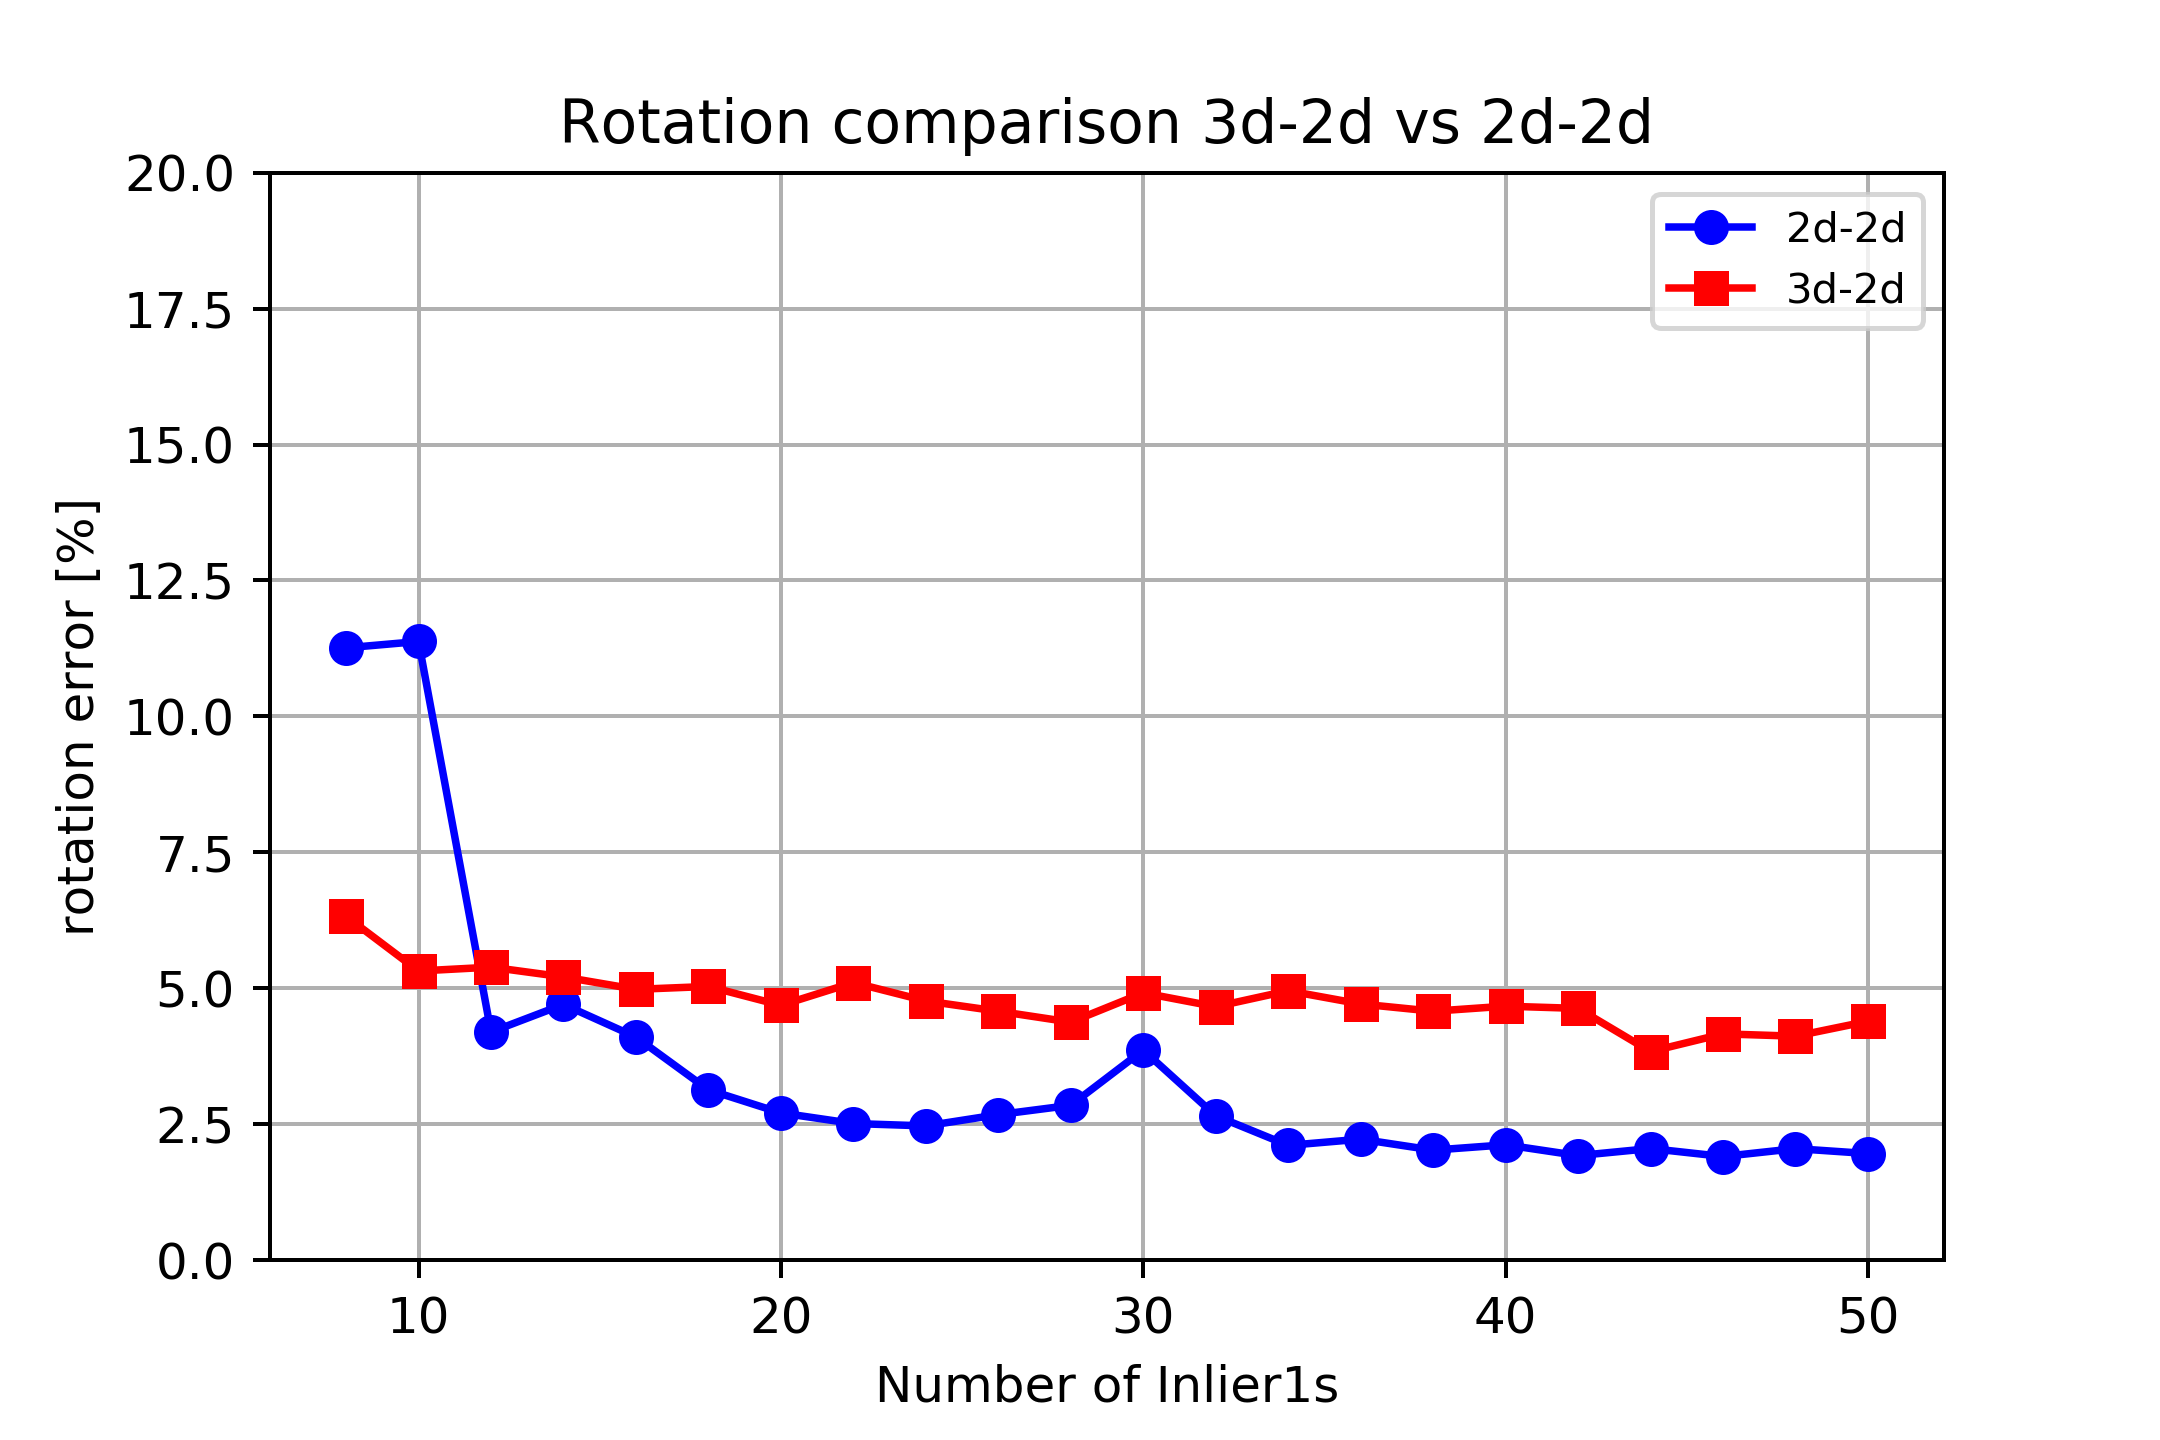
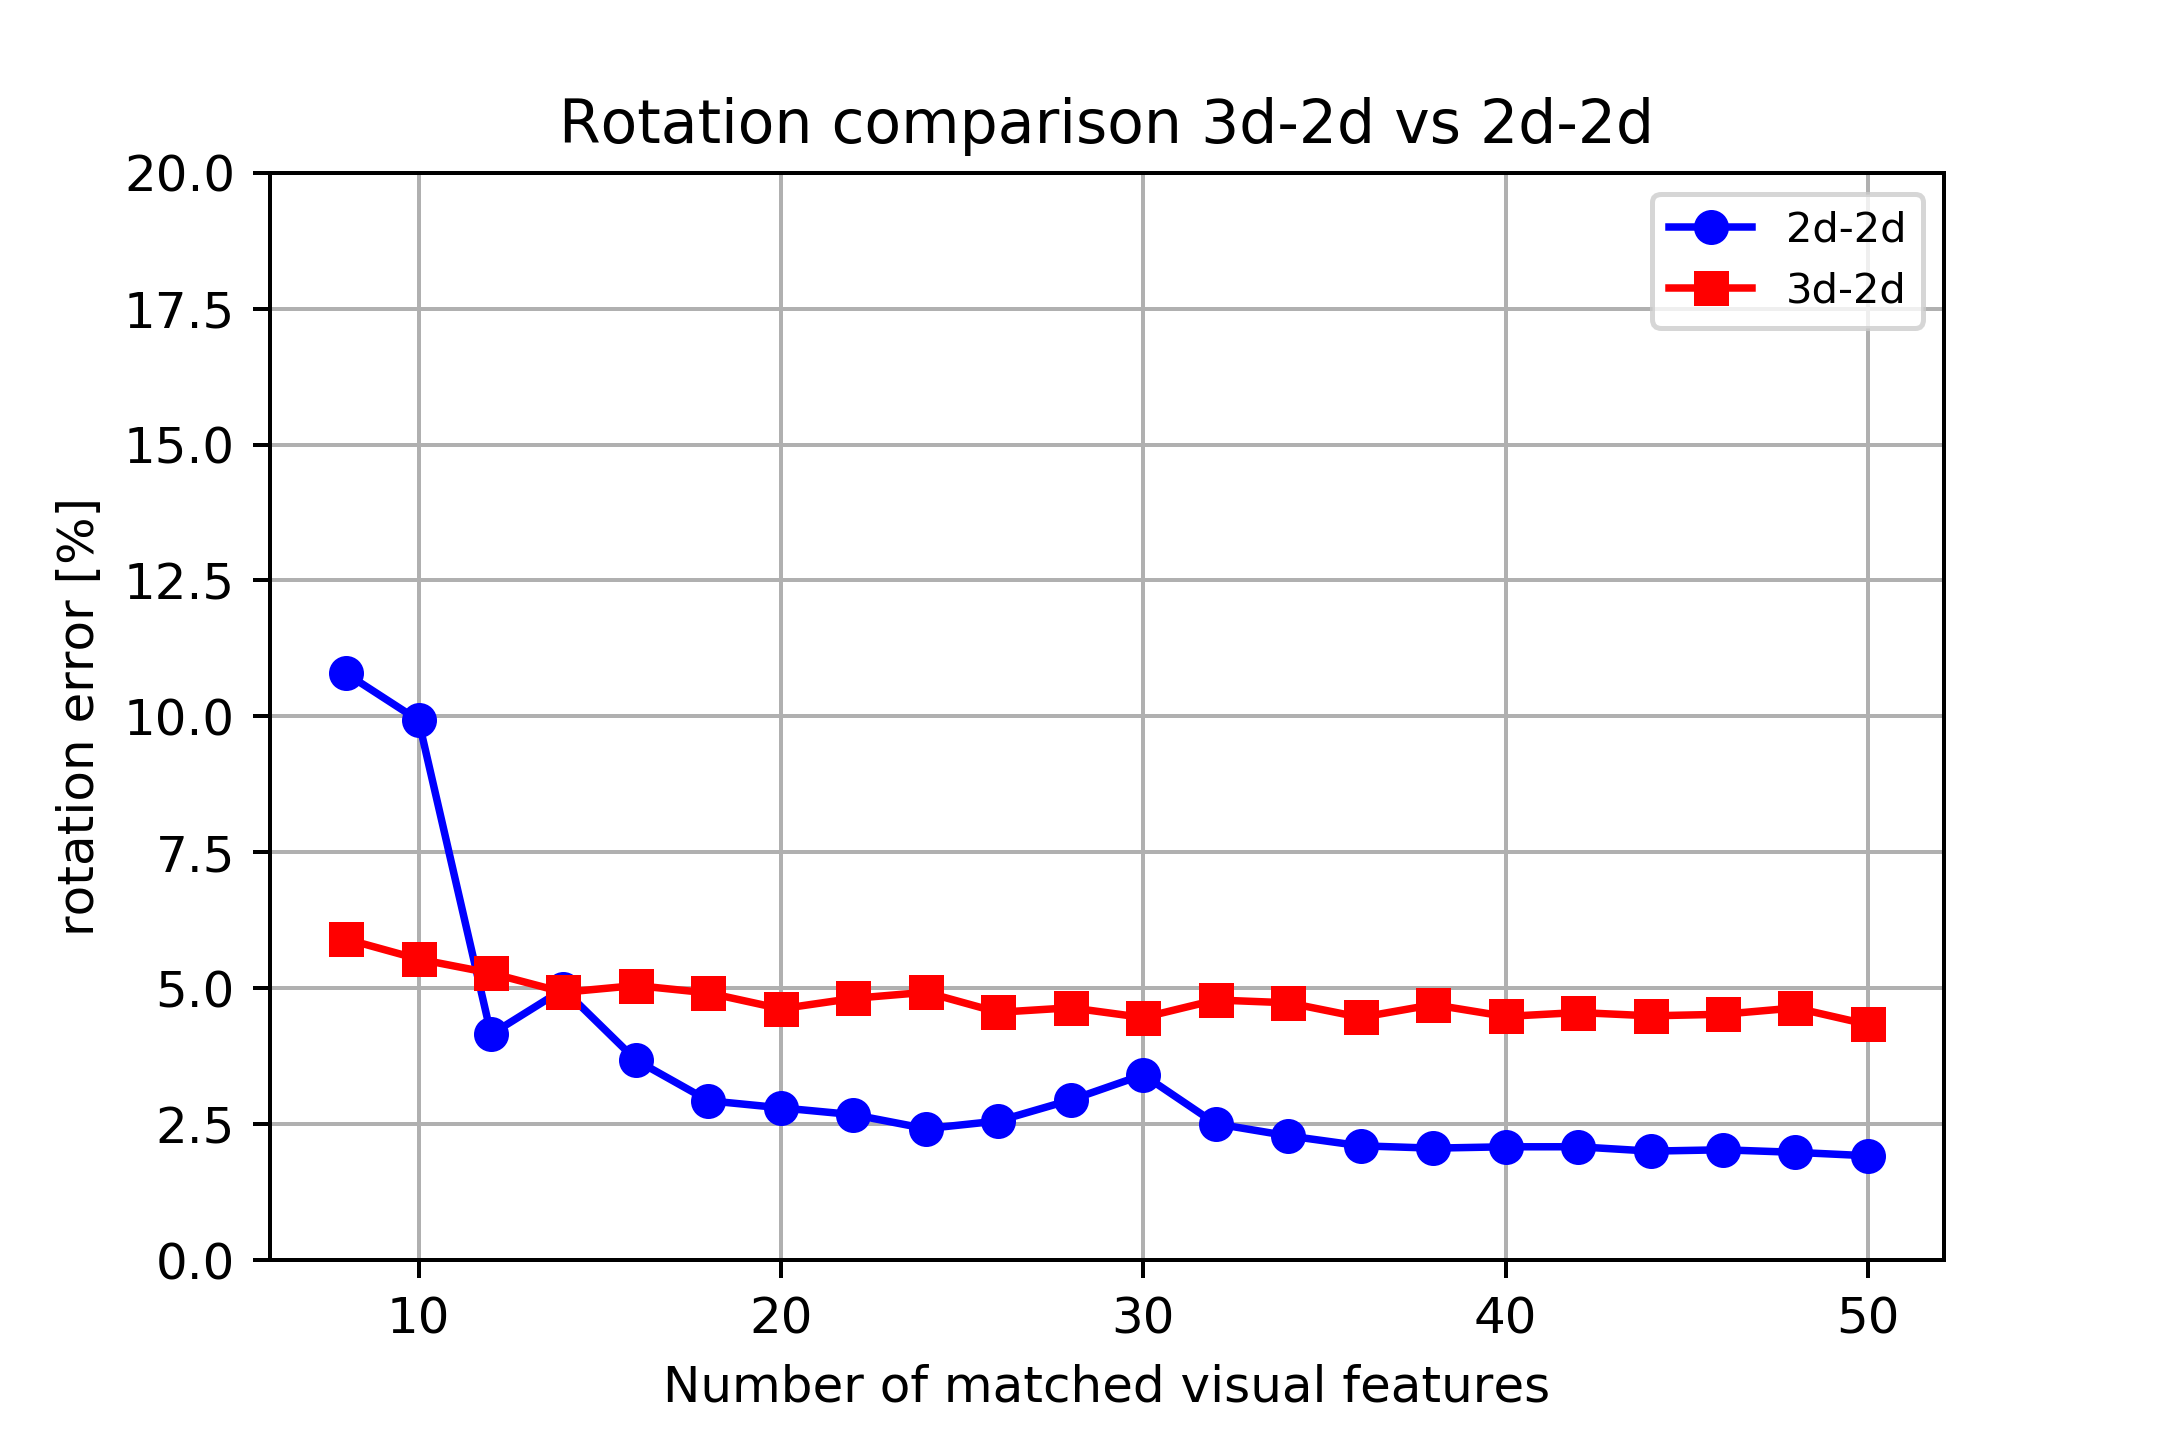
update

diff --git a/test_pnp_num.py b/test_pnp_num.py
@@ -222,7 +222,7 @@ def compare_translation():
     for npt in npts:
         ne_2d2d = []
         ne_3d2d = []
-        for i in range(100):
+        for i in range(300):
             for pos in pos_set:
                 
                  T = al.transform44Euler(pos)
@@ -290,7 +290,7 @@ def compare_translation():
     # ax1.plot(x, bias_a[:,2],'r-', label='bias_az')
     ax1.set_ylim([0,40])
     # plt.title('Accelerometer Bias')
-    ax1.set_xlabel('Number of Inliers')
+    ax1.set_xlabel('Number of matched visual features')
     ax1.set_title('Translation comparison 3d-2d vs 2d-2d')
     ax1.legend(loc='upper right', fontsize='small')
     ax1.grid()
@@ -315,7 +315,7 @@ def compare_rotation():
     for npt in npts:
         ne_2d2d = []
         ne_3d2d = []
-        for i in range(100):
+        for i in range(300):
             for pos in pos_set:
                  T = al.transform44Euler(pos)
                  R = T[0:3,0:3]
@@ -380,7 +380,7 @@ def compare_rotation():
     # ax1.plot(x, bias_a[:,2],'r-', label='bias_az')
     ax1.set_ylim([0,20])
     # plt.title('Accelerometer Bias')
-    ax1.set_xlabel('Number of Inlier1s')
+    ax1.set_xlabel('Number of matched visual features')
     ax1.set_title('Rotation comparison 3d-2d vs 2d-2d')
     ax1.legend(loc='upper right', fontsize='small')
     ax1.grid()
